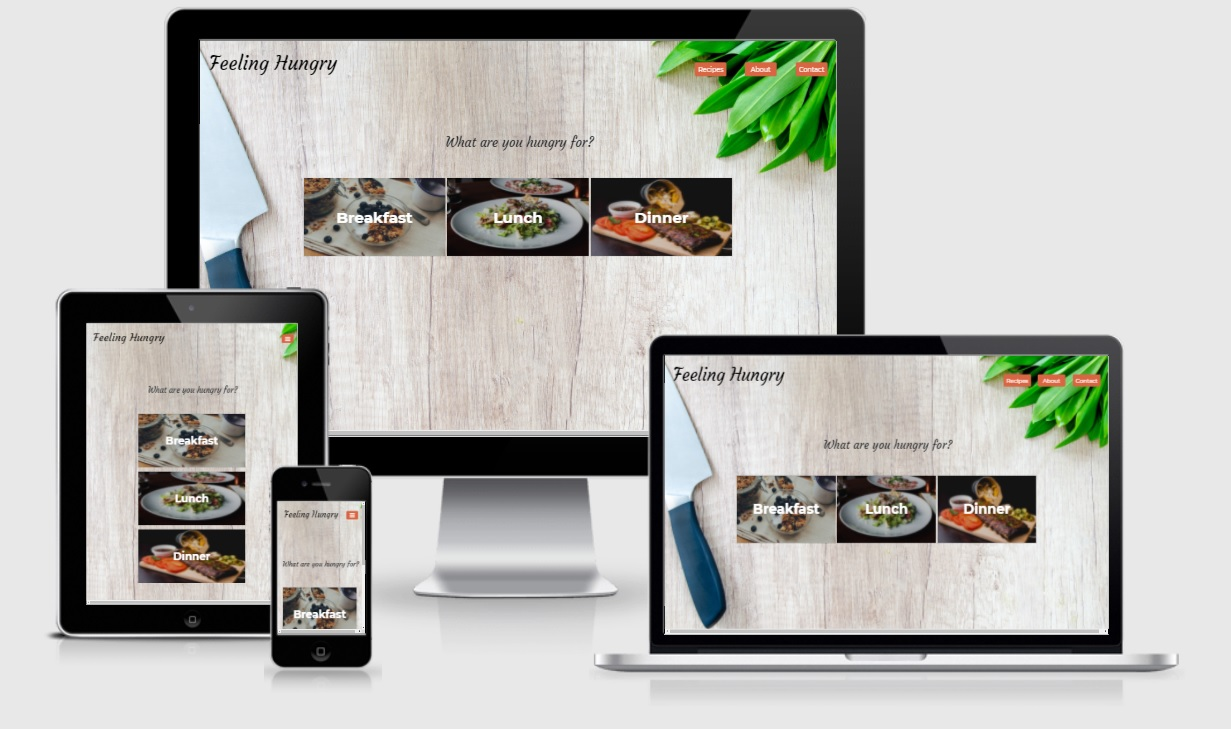
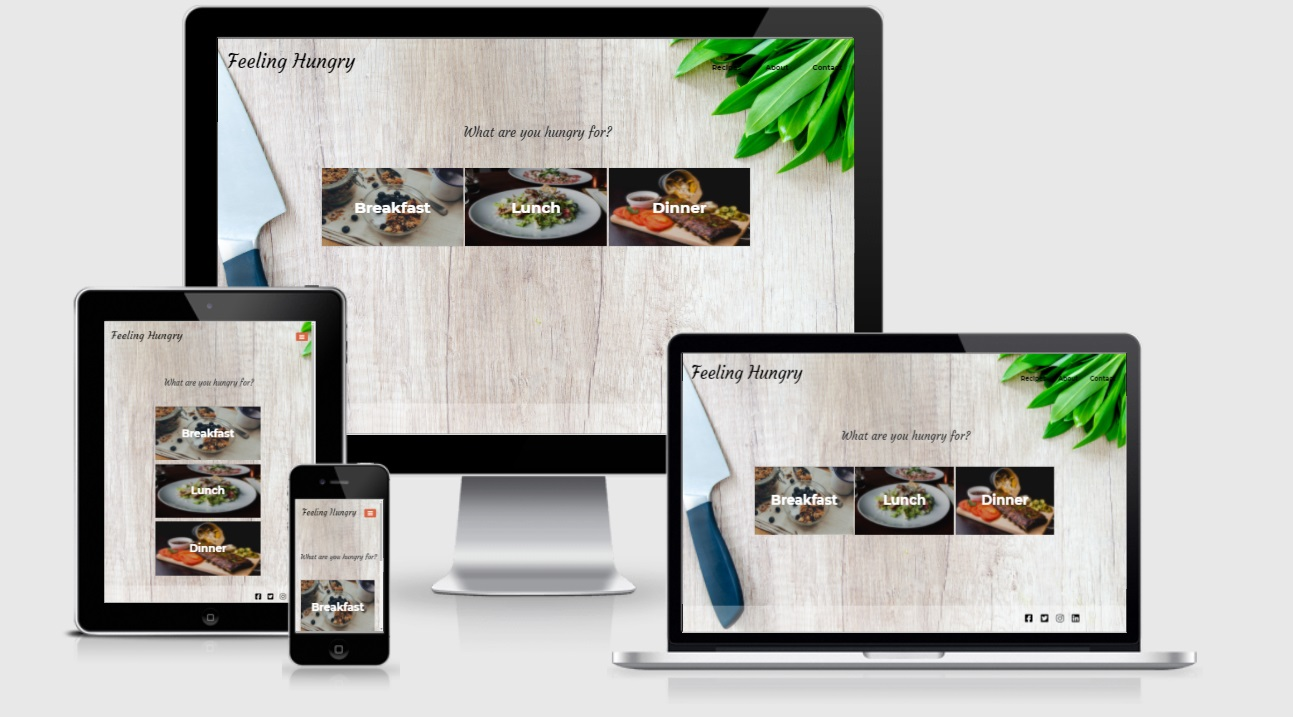
Updated images, updated 404 page

Changed region(s): [[0.0309, 0.0, 0.9569, 0.9512], [0.3396, 0.4603, 0.3704, 0.4909]]

diff --git a/404.html b/404.html
@@ -16,25 +16,25 @@
         <!--Header for title and nav menu-->
         <header class="row">            
             <!--Navbar Toggle from Bootstrap v5.0-->
-            <nav class="navbar navbar-expand-lg navbar-light">
-                <div class="container-fluid g-2 g-sm-3 g-lg-4">
+            <nav class="navbar navbar-expand-lg">
+                <div class="container-fluid">
                     <a class="navbar-brand col-6 col-lg-9" href="index.html">
                         <h1 class="title display-5">Feeling Hungry</h1>
                     </a>
                     <button class="navbar-toggler" type="button" data-bs-toggle="collapse" data-bs-target="#navbarToggler" aria-controls="navbarToggler" 
                         aria-expanded="false" aria-label="Toggle navigation">
-                        <span class="navbar-toggler-icon"></span>
+                        <span class="fas fa-bars"></span>
                     </button>
                     <div class="collapse navbar-collapse col-2 col-lg-3" id="navbarToggler">
                         <ul class="navbar-nav me-auto mb-2 mb-lg-0 col text-end">
                         <li class="nav-item col">
-                            <a class="nav-link" href="search.html">Recipes</a>
+                            <a class="nav-btn rounded search-btn" href="search.html">Recipes</a>
                         </li>
                         <li class="nav-item col">
-                            <a class="nav-link active" aria-current="page" href="about.html">About</a>
+                            <a class="nav-btn rounded about-btn" href="about.html">About</a>
                         </li>
                         <li class="nav-item col">
-                            <a class="nav-link" href="contact.html">Contact</a>
+                            <a class="nav-btn rounded contact-btn" href="contact.html">Contact</a>
                         </li>
                         </ul>
                     </div>
@@ -56,6 +56,43 @@
                 </div>
             </div>
         </main>
+        <!-- Footer with Social Icons -->
+        <footer class="container-fluid">
+            <div class="row">
+                <div class="col-sm-4">       
+                </div>
+                <div class="col-sm-4">
+                </div>
+                <div class="col-sm-4">
+                    <ul class="social-links list-inline">
+                        <li class="list-inline-item">
+                            <a href="https://www.facebook.com/" target="_blank" class="social-icon hvr-icon-grow">
+                                <i class="fab fa-facebook-square hvr-icon" aria-hidden="true"></i>
+                                <span class="sr-only">Facebook</span>
+                            </a>
+                        </li>
+                        <li class="list-inline-item">
+                            <a href="https://twitter.com/" target="_blank" class="social-icon hvr-icon-grow">
+                                <i class="fab fa-twitter-square hvr-icon" aria-hidden="true"></i>
+                                <span class="sr-only">Twitter</span>
+                            </a>
+                        </li>
+                        <li class="list-inline-item">
+                            <a href="https://www.instagram.com/" target="_blank" class="social-icon hvr-icon-grow">
+                                <i class="fab fa-instagram hvr-icon" aria-hidden="true"></i>
+                                <span class="sr-only">Instagram</span>
+                            </a>
+                        </li>
+                        <li class="list-inline-item">
+                            <a href="https://www.linkedin.com/" target="_blank" class="social-icon hvr-icon-grow">
+                                <i class="fab fa-linkedin hvr-icon" aria-hidden="true"></i>
+                                <span class="sr-only">LinkedIn</span>
+                            </a>
+                        </li>
+                    </ul>
+                </div>
+            </div>
+        </footer>
         <script src="https://cdn.jsdelivr.net/npm/bootstrap@5.0.1/dist/js/bootstrap.bundle.min.js" 
         integrity="sha384-gtEjrD/SeCtmISkJkNUaaKMoLD0//ElJ19smozuHV6z3Iehds+3Ulb9Bn9Plx0x4" crossorigin="anonymous"></script>
     </body>
